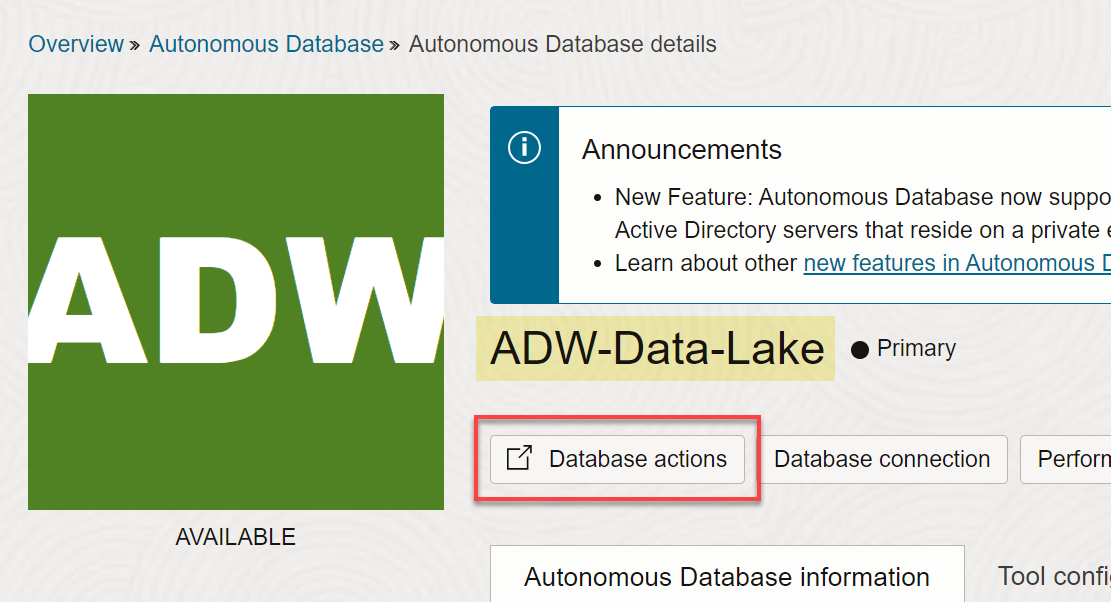
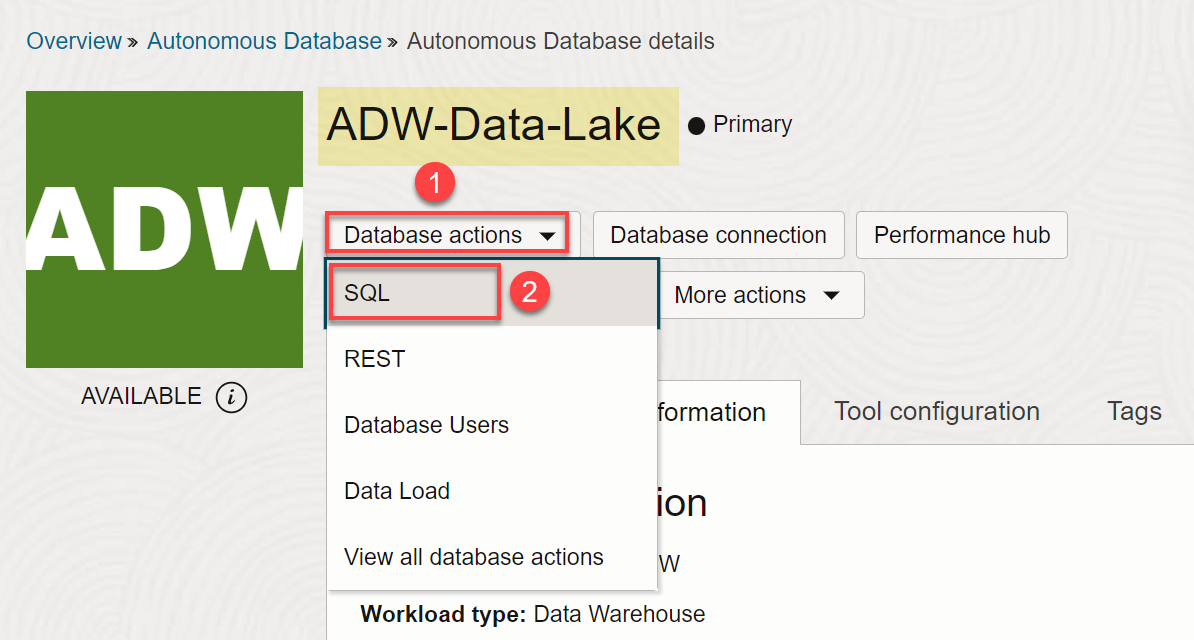
minor changes database actions drop-down list

diff --git a/shared/adw-data-lake/build-data-lake/load-analyze-json/load-analyze-json.md b/shared/adw-data-lake/build-data-lake/load-analyze-json/load-analyze-json.md
@@ -58,19 +58,15 @@ If you already have the **Oracle Database Actions** browser tab open from the pr
     ![On the Autonomous Databases page, the Autonomous Database that you provisioned is displayed and highlighted.](./images/adb-page.png " ")
 </if>
 
-4. On the **Autonomous Database details** page, click **Database actions**.
-
-    <if type="livelabs">
-    ![The Database Actions button is highlighted.](./images/ll-click-db-actions.png " ")
-    </if>
+4. On the **Autonomous Database details** page, click the **Database actions** drop-down list, and then click **SQL**.
 
     <if type="freetier">
     ![The Database Actions button is highlighted.](./images/click-db-actions.png " ")
     </if>
 
-5. A **Launch DB actions** message box with the message **Please wait. Initializing DB Actions** is displayed. Next, the **Database Actions | Launchpad** Home page is displayed in a new tab in your browser. In the **Development** section, click the **SQL** card to display the SQL Worksheet.
+5. The SQL Worksheet is displayed.
 
-    ![Click the SQL card.](./images/click-sql-card.png " ")
+    ![The SQL worksheet is displayed.](./images/sql-worksheet-displayed.png " ")
 
 6. Use the Autonomous Database ``DBMS_CLOUD.COPY_COLLECTION`` procedure to create and load the movie collection from object storage. Copy and paste the following script into your SQL Worksheet, and then click the **Run Script (F5)** icon in the Worksheet toolbar.
     ```
@@ -277,4 +273,4 @@ You may now proceed to the next lab.
 * **Author** - Marty Gubar, Autonomous Database Product Management
 * **Contributors:**
     * Lauran Serhal, Consulting User Assistance Developer, Oracle Database and Big Data
-* **Last Updated By/Date:** Lauran Serhal, June 2023
+* **Last Updated By/Date:** Lauran Serhal, August 2023

diff --git a/shared/adw-data-lake/build-data-lake/load-analyze-rest/load-analyze-rest.md b/shared/adw-data-lake/build-data-lake/load-analyze-rest/load-analyze-rest.md
@@ -95,12 +95,12 @@ Now that you have the API key, create a PL/SQL function that queries the REST en
 3. On the **Autonomous Databases** page, click your **ADW-Data-Lake** ADB instance.
 </if>
 
-4. On the **Autonomous Database details** page, click **Database actions**.
+4. On the **Autonomous Database details** page, click the **Database actions** drop-down list, and then click **SQL**.
 
-5. The **Database Actions | Launchpad** Home page is displayed in a **_new tab_** in your browser. In the **Development** section, click the **SQL** card.
+5. The SQL Worksheet is displayed.
 
-    ![Click the SQL card.](./images/click-sql-card.png " ")
-
+    ![The SQL worksheet is displayed.](./images/sql-worksheet-displayed.png " ")
+    
 6. Ensure that the public REST endpoint is accessible by our PL/SQL function. Copy and paste the following API call code into your SQL Worksheet to update the access control list, and then click the **Run Script (F5)** icon in the Worksheet toolbar. This will allow the **ADMIN** user to call out to any public host.
 
     ```
@@ -351,4 +351,4 @@ You may now proceed to the next lab.
 * **Authors:**
     * Marty Gubar, Autonomous Database Product Management
     * Lauran Serhal, Consulting User Assistance Developer, Oracle Database and Big Data
-* **Last Updated By/Date:** Lauran Serhal, June 2023
+* **Last Updated By/Date:** Lauran Serhal, August 2023

diff --git a/shared/adw-data-lake/build-data-lake/use-delta-sharing/use-delta-sharing.md b/shared/adw-data-lake/build-data-lake/use-delta-sharing/use-delta-sharing.md
@@ -60,9 +60,7 @@ If you already accessed the SQL Worksheet from the previous lab, you can skip ov
 3. On the **Autonomous Databases** page, click your **ADW-Data-Lake** ADB instance.
 </if>
 
-4. On the **Autonomous Database details** page, click **Database actions**.
-
-5. In the **Database Actions | Launchpad** Home page, in the **Development** section, click the **SQL** card to display the SQL Worksheet.
+4. On the **Autonomous Database details** page, click the **Database actions** drop-down list, and then click **SQL**. The SQL Worksheet is displayed.
 
 ## Task 3: Create a Database Credential and List the Available Schemas and Tables
 
@@ -176,7 +174,7 @@ You may now proceed to the next lab.
     * Lauran Serhal, Consulting User Assistance Developer, Oracle Database and Big Data
 * **Contributor:**
     + Alexey Filanovskiy, Senior Principal Product Manager
-* **Last Updated By/Date:** Lauran Serhal, June 2023
+* **Last Updated By/Date:** Lauran Serhal, August 2023
 
 Data about movies in this workshop were sourced from Wikipedia.
 
